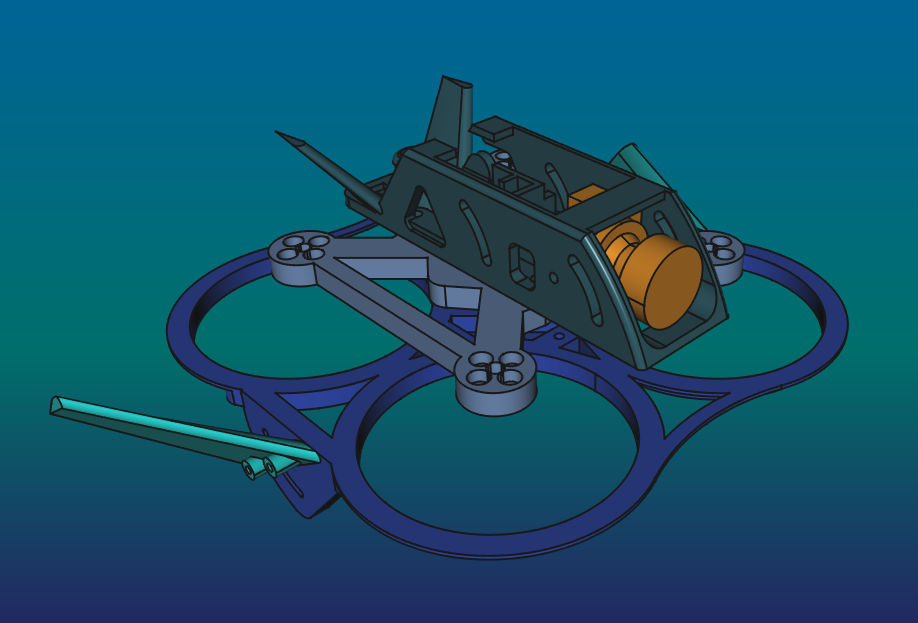
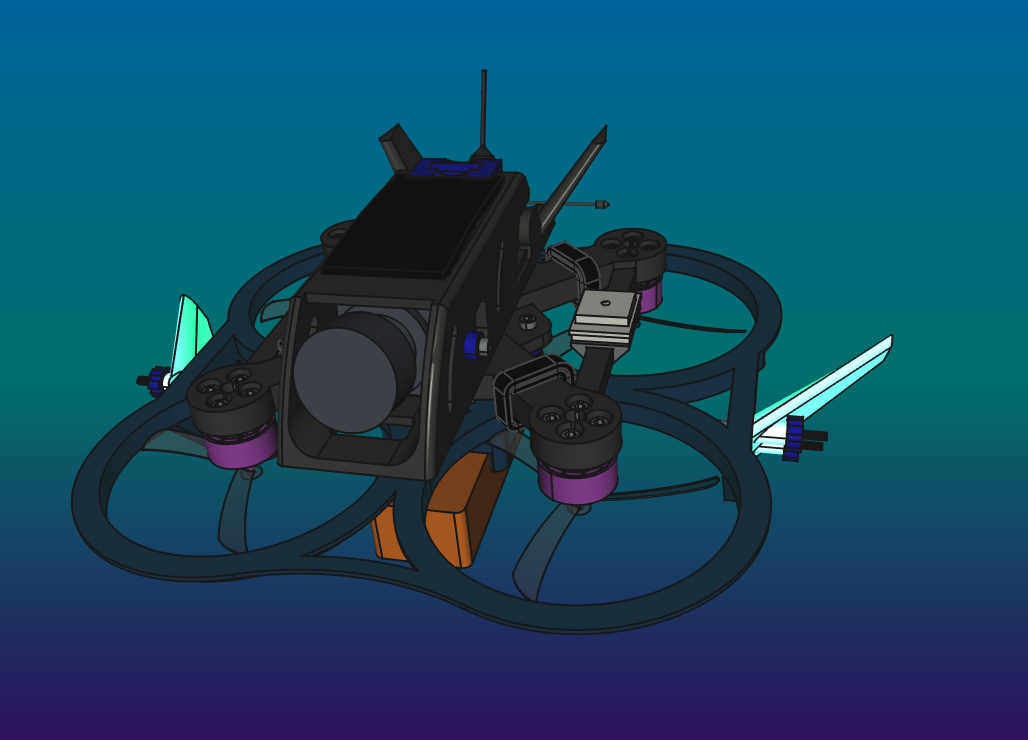
add images

diff --git a/README.md b/README.md
@@ -23,7 +23,7 @@ Youtube Video **(with old nano VTX camera)**:
 
 
 ## 3D printing
-![chimera render](images/renderPerspective.png)
+![chimera render](images/renderLeft.png)
 
 All on 0.4 brass nozzle, make sure you have at least 5 pieces- CF filaments will wear off quickly. Trim Z-offset after every CF print
 
@@ -62,6 +62,7 @@ I don't recommend using SS nozzle becouse it's too cold for my printer.
 >very robust duct. It make your drone heavier thatn 225grams, but can handle drops from 20 meters into grass
 
 ## BOM
+![chimera render](images/renderBack.png)
 
 ### 3D printed
 - 1 x duct-light
@@ -125,6 +126,10 @@ I don't recommend using SS nozzle becouse it's too cold for my printer.
 - [x] 12x M2 H3 D3.6mm brass insert
 >you can recover it from broken parts, but make sure you have spares
 - [x] 4x M2 1,6mm nut to lock stack screws
+
+![chimera render](images/renderBack.png)
+![chimera render](images/renderUp.png)
+![chimera render](images/renderPerspective.png)
 
 # todo list
 - [ ] make case
